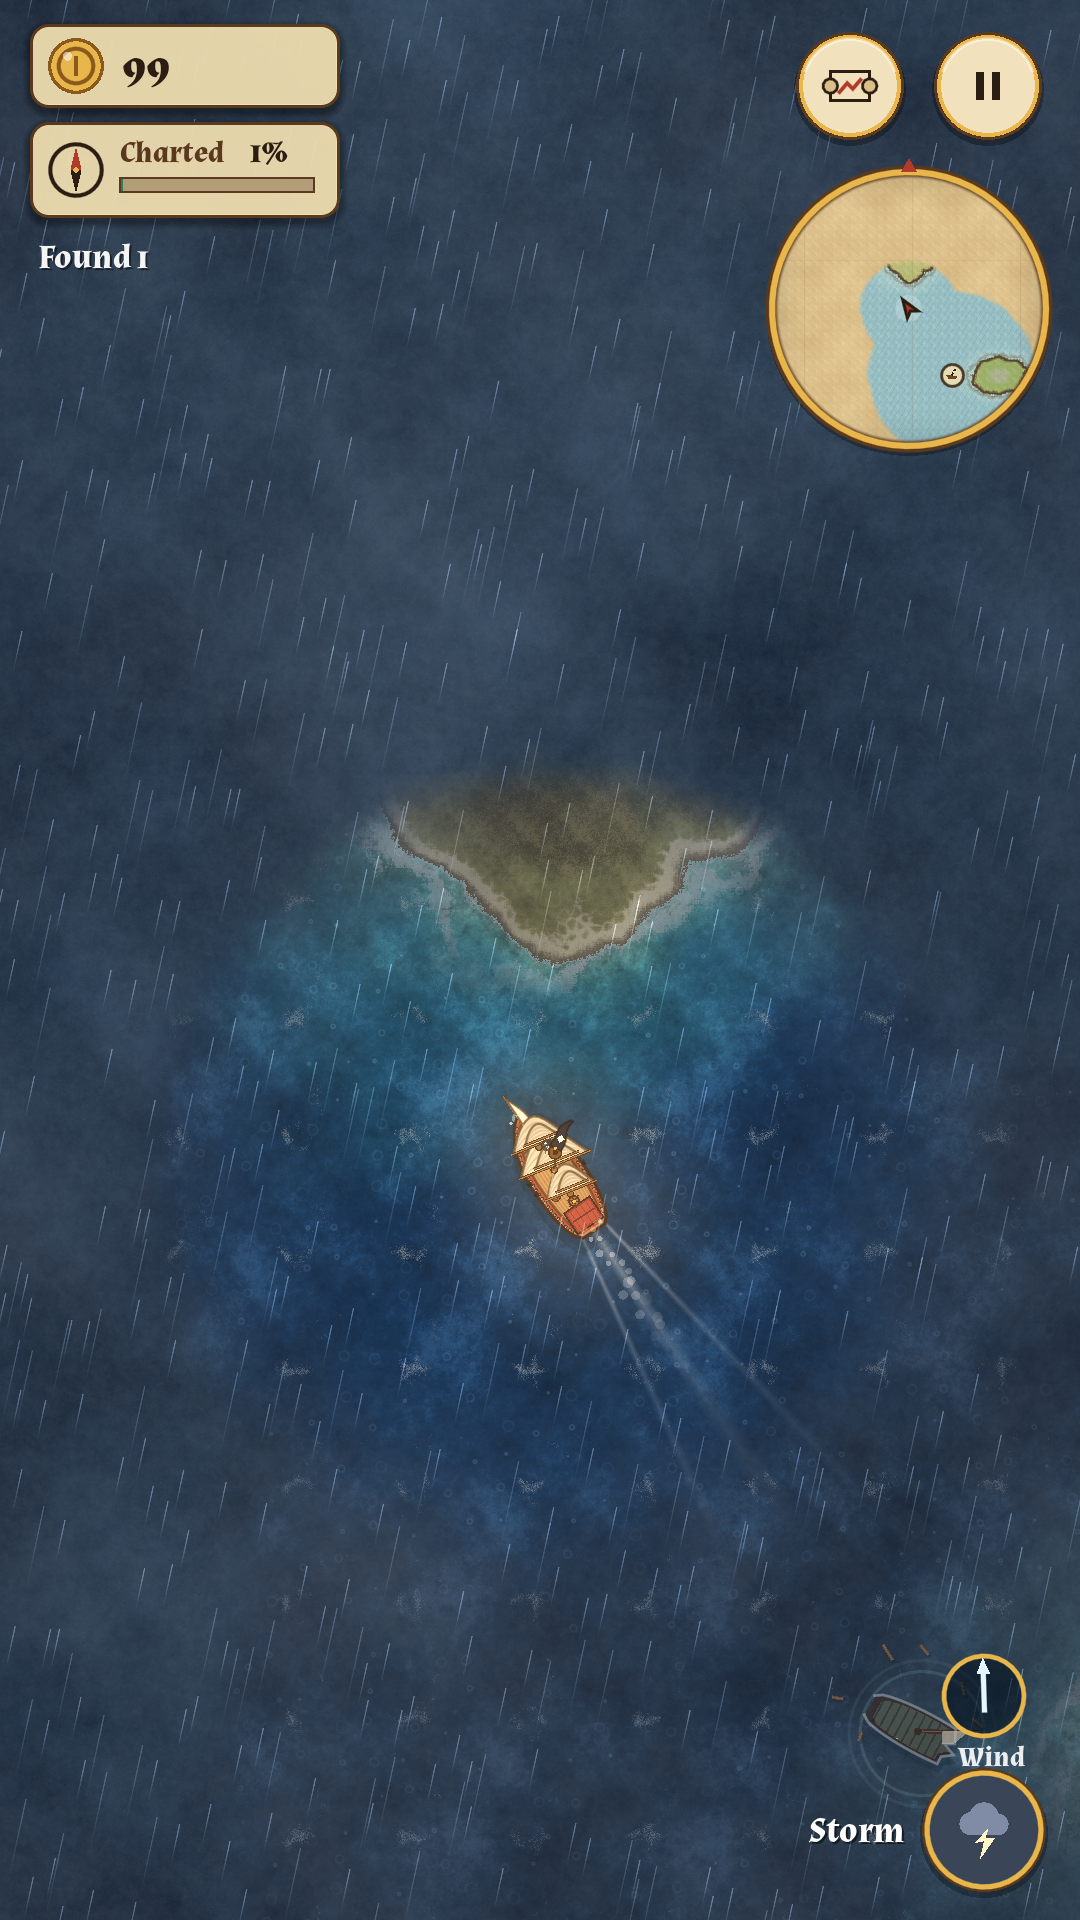
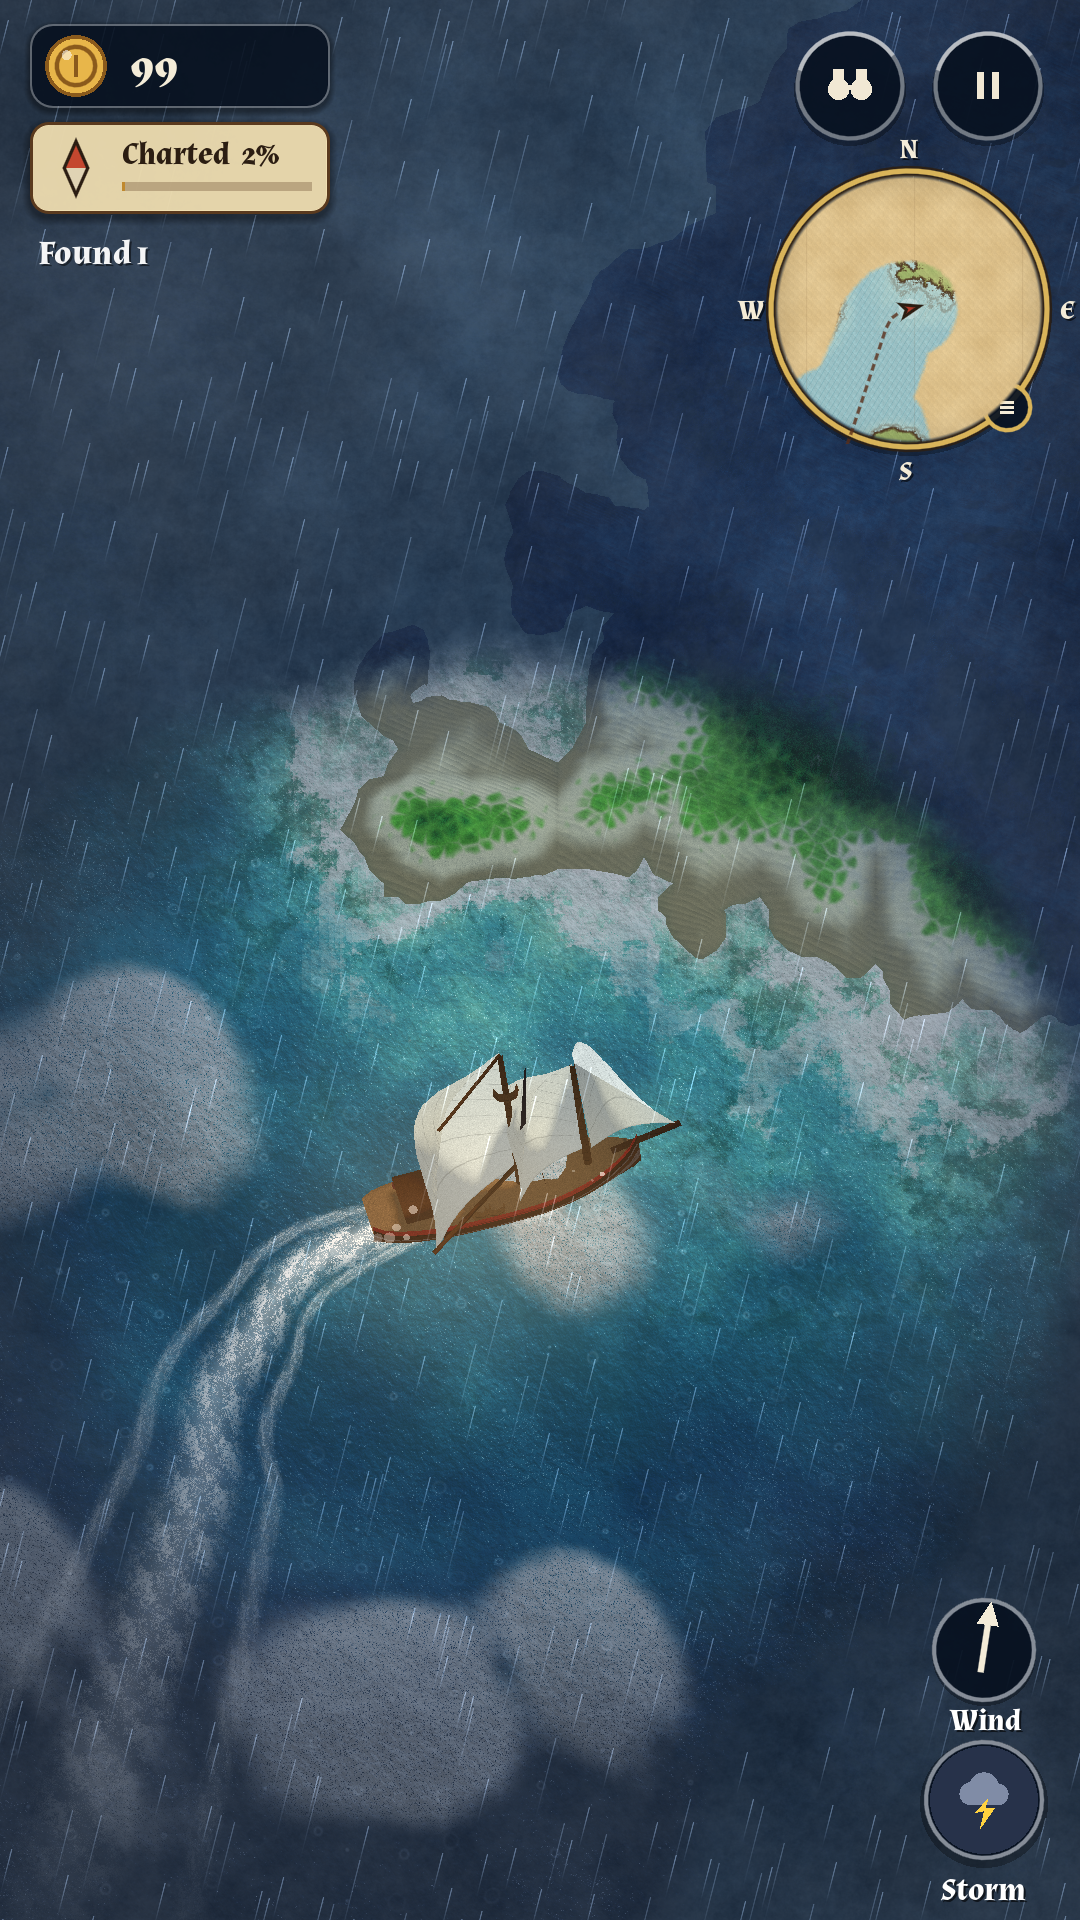
Art pipeline doc with cohesive asset prompts, refreshed store screenshots, water shadow fix
Claude-Session: https://claude.ai/code/session_01KCsQNVoLoij9Zjz9zGKQQL

diff --git a/docs/ART-PIPELINE.md b/docs/ART-PIPELINE.md
@@ -1,0 +1,153 @@
+# Art pipeline: what to generate, with exact prompts
+
+The 3D sea (terrain, water, ship, trees, wake, lighting, weather) is built and
+playable with **procedural placeholder art**. To reach the painted, lifelike look
+of the reference screenshots, replace the placeholders with painted assets. This
+file lists every asset, its exact specs, and a prompt written to keep the whole
+set cohesive. Generate in the order given; the first block is the style anchor.
+
+## 0. Style anchor (paste at the start of EVERY prompt)
+
+> **STYLE:** hand-painted stylised-realistic game art, rich saturated colour, soft
+> painterly brush texture with visible but fine strokes, clean readable
+> silhouettes, warm sunlight from the upper right with soft cool shadows falling
+> to the lower left, high-end mobile game quality, tropical turquoise and deep
+> sapphire sea palette, warm sand, lush emerald foliage, weathered honey-brown
+> wood, cream canvas sails. Consistent with a premium 3D hand-painted pirate
+> exploration game. No text, no watermark, no signature, no frame.
+
+Rules that keep every asset consistent:
+- **Camera:** top-down tilted about 68 degrees (looking mostly straight down).
+  Nothing is drawn from a side view unless stated.
+- **Light:** from the upper right. Highlights on upper-right edges, shade lower left.
+- **Palette:** sea turquoise `#4DD6C4` to sapphire `#0A4FA0` to navy `#06265A`;
+  sand `#F0DBA0`; grass `#6BB33A`; deep foliage `#1E6B30`; wood `#8A5A2B`;
+  canvas `#F2E8CF`; rock `#6F6558`; accent red `#B8392B`; brass `#E8B64A`.
+- **Format:** PNG, sRGB. Sprites on **transparent** background (ask the
+  generator for "isolated on a plain flat magenta background" then key it out,
+  or use its transparent-PNG mode). Tileables must tile seamlessly.
+- **Names:** exactly as below, into `assets/art/<folder>/`. I wire them up; no
+  code changes are needed from you.
+
+## 1. Terrain textures (tileable, 1024x1024, albedo only, no baked shadows)
+
+Use "seamless tileable texture, flat top-down view, no perspective, no lighting
+direction, no shadows" in each prompt. Folder `assets/art/terrain/`.
+
+| file | prompt (after STYLE) |
+|---|---|
+| `grass.png` | lush tropical meadow grass seen from directly above, short blades and clover, mix of yellow-green and emerald, subtle darker patches |
+| `forest_floor.png` | dense jungle canopy seen from directly above, overlapping rounded leaf clusters in deep emerald and teal with small yellow-green highlights |
+| `sand_dry.png` | warm pale beach sand seen from directly above, fine grain, a few tiny shells and pebbles, gentle wind ripples |
+| `sand_wet.png` | wet darker beach sand seen from directly above, glossy damp sheen, tiny water rivulets |
+| `rock_cliff.png` | weathered sandstone cliff face seen from above, vertical strata layers in tan, ochre and grey-brown, cracks and chipped edges |
+| `rock_top.png` | rough grey volcanic rock seen from above, lichen patches, cracks, a little moss |
+| `earth_dry.png` | dry cracked orange-brown earth with sparse tufts of dry grass, seen from above |
+
+## 2. Water textures (tileable, 1024x1024, greyscale or white-on-black)
+
+Folder `assets/art/water/`. "Seamless tileable, top-down, no colour".
+
+| file | prompt |
+|---|---|
+| `foam.png` | white sea foam bubbles and lace pattern on black, soft irregular streaks, high contrast, greyscale |
+| `caustics.png` | bright underwater sunlight caustic network lines on black, thin glowing web pattern, greyscale |
+| `wave_normal.png` | small ocean ripples as a tangent-space normal map (blue-purple), choppy but gentle, seamless |
+| `seabed_sand.png` | sandy sea floor seen through clear shallow water, soft ripples, pale yellow-turquoise, no foam |
+| `reef.png` | coral reef and seagrass seen from above through clear turquoise water, dark teal and green patches over pale sand |
+
+## 3. Vegetation sprites (transparent PNG, 512x512 each, 3/4 top-down view)
+
+Folder `assets/art/props/`. Each tree seen from above and slightly from the
+front, with its own soft shadow ellipse offset to the lower left baked **not** in
+(shadow handled in engine). Isolated.
+
+| file | prompt |
+|---|---|
+| `tree_broadleaf_a.png` | single round tropical broadleaf tree, big layered canopy of overlapping leaf clusters, emerald with sunlit yellow-green tops, short brown trunk barely visible |
+| `tree_broadleaf_b.png` | same species, different shape, wider and flatter canopy |
+| `tree_pine_a.png` | single tall conifer seen from above and a little from the front, layered drooping branches, deep blue-green with lighter tips |
+| `palm_a.png` | single coconut palm seen from above, long curved fronds radiating, bright green with yellow midribs, a few coconuts |
+| `palm_b.png` | second palm, fronds drooping more, one leaning |
+| `bush_a.png` | small flowering shrub, dark green with tiny red and white flowers |
+| `rock_a.png` | one chunky grey-brown boulder with moss on top |
+| `rock_b.png` | cluster of three smaller boulders |
+| `rock_spire.png` | tall jagged sea stack rock, sandstone strata, white guano streaks |
+| `driftwood.png` | bleached driftwood log with roots, on sand |
+
+## 4. Ship (the hero asset). Folder `assets/art/ship/`
+
+Painted parts, all seen from above-and-slightly-behind, bow pointing **up**.
+Canvas 1024x2048, transparent, ship centred. The ship hull is about 560 px wide
+and 1500 px long.
+
+| file | prompt |
+|---|---|
+| `hull.png` | wooden pirate sloop hull only, no sails, no masts, seen from above, curved planked sides in honey-brown with a red stripe along the gunwale, pointed bow with bowsprit, stern cabin with small lit windows, deck planks visible, barrels and hatch and wheel on deck, cannons poking over the rail, bow pointing up |
+| `hull_dark.png` | identical hull layout, darker aged wood with pitch-black stripe, for the "ghost" variant |
+| `sail_main.png` | one large billowing cream canvas gaff sail seen from above, swelling to the right, stitched seams, slightly grubby, wooden boom along the bottom edge, transparent background |
+| `sail_fore.png` | smaller billowing cream sail, same style, swelling to the right |
+| `sail_jib.png` | small triangular jib sail, swelling right |
+| `flag_jolly.png` | black pirate flag with a white skull and crossed bones, flying and rippling to the left |
+| `wheel_detail.png` | brass-and-wood ship wheel seen from above |
+| `crowsnest.png` | wooden crow's nest platform seen from above with rope rigging lines |
+
+Livery variants (later): repeat `hull.png` with a blue stripe, a gold stripe, a
+black-and-white checker stripe.
+
+## 5. Points of interest sprites (transparent, 1024x1024, top-down 3/4)
+
+Folder `assets/art/poi/`. These sit on islands and are lit from the upper right.
+
+| file | prompt |
+|---|---|
+| `village.png` | small tropical pirate harbour village seen from above, six timber houses with terracotta and teal roofs, wooden pier extending down into the sea with a moored rowboat, lanterns, fishing nets drying, palm trees |
+| `lighthouse.png` | white-and-red striped stone lighthouse on a rocky islet seen from above and slightly front, lantern room glowing |
+| `treasure.png` | sandy islet with three palms and a big red X marked in the sand, a half-dug hole with a chest and a spade |
+| `skull_rock.png` | huge rock formation naturally shaped like a skull with dark eye caves and a jaw of teeth, sea foam at its base |
+| `wreck.png` | sunken wooden galleon wreck, broken ribs and snapped mast poking out of shallow turquoise water, torn sail, barnacles |
+| `whirlpool.png` | powerful ocean whirlpool seen from above, spiralling dark blue arms with white foam streaks, black eye |
+| `bottle.png` | message in a bottle floating, green glass, cork, rolled parchment inside, ripples |
+| `wisps.png` | three pale blue-cyan ghost lights hovering above dark water, soft glow, faint trails |
+
+## 6. UI kit (transparent PNG). Folder `assets/art/ui/`
+
+Match the reference UI: dark glass chips, aged parchment, brass rims.
+
+| file | size | prompt |
+|---|---|---|
+| `panel_parchment.png` | 1024x1024, 9-slice friendly | aged cream parchment panel with torn darker edges and a thin brown ink border, empty centre |
+| `chip_glass.png` | 600x160 | dark navy translucent rounded rectangle with a thin silver-grey rim and soft highlight on the top edge, empty |
+| `button_primary.png` | 800x200 | polished brass-gold rounded button with a darker bevel and soft highlight, empty |
+| `button_wood.png` | 800x200 | carved dark wood rounded button with a brass rim, empty |
+| `compass_rose.png` | 1024x1024 | ornate hand-inked compass rose in brown ink on transparent background |
+| `icon_set.png` | 2048x1024 | sheet of 16 flat hand-painted icons in a 4x4 grid: coin, binoculars, scroll, anchor, ship wheel, sword, shield, heart, cannonball, hammer, sail, barrel, chest, map, lantern, spyglass |
+
+## 7. Event and encounter illustrations. Folder `assets/art/events/`
+
+Portrait 1080x1350, painted illustration (these are the "stills you provide"; I
+build the screens around them). Same STYLE block plus "digital painting
+illustration, cinematic framing". Examples to start: `ev_merchant.png`,
+`ev_fog_ship.png`, `ev_ghost_lights.png`, `ev_sea_serpent.png`, `ev_harbour_tavern.png`.
+
+## 8. Title key art. `assets/art/title_bg.png`
+
+1080x1920 portrait. "Cinematic key art: a pirate sloop with cream sails
+cutting through turquoise water at golden hour, tropical islands in the
+distance, dramatic clouds, painted style" plus STYLE. Leave the upper third
+calm (the logo sits there) and the lower third darker (buttons sit there). When
+this file exists the title screen uses it instead of the live sea.
+
+## 9. How I wire them in (what changes when files appear)
+
+| assets present | effect |
+|---|---|
+| `terrain/*` | terrain shader samples them in place of procedural noise textures (cliffs, sand, grass, forest) |
+| `water/*` | water shader uses the foam, caustics, normal and seabed textures |
+| `props/*` | trees and rocks become instanced painted cards (camera-facing, with baked-in lighting) in addition to or instead of the 3D meshes |
+| `ship/*` | ship uses the painted hull plus layered sail sprites on top of the 3D motion (bob, heel, billow) |
+| `poi/*` | each point of interest is drawn from its sprite with the existing animation on top |
+| `ui/*` | HUD and menus switch from code-drawn shapes to 9-slice painted frames |
+| `title_bg.png` | already supported |
+
+You can supply them in any order. Each folder works on its own.

diff --git a/PROGRESS.md b/PROGRESS.md
@@ -10,6 +10,10 @@ Every session starts by reading this file. Every milestone ends by updating it a
 - Code: **Milestone 1 built** (sailing sea, joystick, fog of war, points of interest, weather). See "Milestone 1" below.
 - Assets: nothing supplied yet. Everything is generated or code-drawn placeholder; fonts are OFL (Pirata One, Almendra).
 
+## Visual rework (3D sea), latest
+The sea is now rendered in **3D** behind the existing 2D overlay: tilted orthographic camera, lit terrain with relief and strata, instanced 3D trees and rocks (streamed in chunks), wave-displaced water with depth colours, caustics, surf, whitecaps and sun glitter, a procedural 3D sloop whose sails billow with the wind and whose boom swings, a ribbon foam wake, shadows at High quality. Gameplay, HUD, weather, fog of war, points of interest and audio are unchanged. The old 2D shaders remain for the chart and as fallback.
+It is as close to the reference screenshots as code alone gets; the remaining gap is painted art. **docs/ART-PIPELINE.md lists every asset with exact specs and cohesive prompts**; drop the files into assets/art/ and I wire them in. Real-device performance of the 3D scene is still unmeasured, so check it first.
+
 ## Milestone 1: what is in
 - Portrait (1080x1920 base), Godot Compatibility renderer, floating one-thumb joystick (also keyboard, mouse, gamepad on desktop).
 - Procedural archipelago per voyage (10x10 portrait screens, about 150 islands, deterministic per seed, generated on a worker thread behind a "Charting the seas" screen). The whole sea is one shader quad: water with swell, caustics and glints, animated surf, beaches, forests, rock, cloud shadows.
